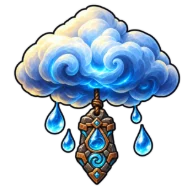
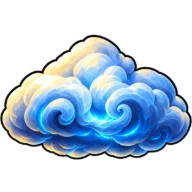
Rain totem cloud: picture is the cloud only, rain comes from the loop effect
Lim: remove the water drops from the picture, keep only the cloud and show
the rain as an effect. board-totem-rain v3 (Codex, same cloud without the
charm and drops); shaman-rain-loop now rains from the whole cloud belly
(logical 75, centre half a side below the cloud). Cloud placed fully inside
the board's top-right corner.

diff --git a/src/battle/board.ts b/src/battle/board.ts
@@ -1283,7 +1283,7 @@ const HERO_BOARD_ART: Partial<Record<HeroKey, string[]>> = {
  * 칸 위에 얹는 그림의 그려진 부분 (192px 그림 중 폭 · 높이 비율, 80 5장 납품본을 잼). 판 가장자리에서 크기를 줄일 때 씀 (비율은 그대로)
  */
 const HERO_ART_BOX: Record<string, [number, number]> = {
-  'board-totem-rain': [0.86, 0.94], // 2026-10-18 Codex로 다시 그림 (샘 · 대지 토템과 같은 돌 · 구리 부적) 'board-mist': [0.98, 0.49], 'board-seal': [0.85, 0.96], 'board-barrier': [0.79, 1],
+  'board-totem-rain': [1, 0.65], // 2026-10-18 Codex로 다시 그림: 구름만 (Lim 「물방울은 이미지에서 제거하고 구름만, 이펙트로 비를 표현」) 'board-mist': [0.98, 0.49], 'board-seal': [0.85, 0.96], 'board-barrier': [0.79, 1],
   'board-star-mark': [0.99, 0.79], 'board-star': [0.8, 0.96], 'board-star-sleep': [0.79, 1], // 결계 · 별의 잠 · 별자리 표식은 2026-10-16 굵게 다시 그림 (89)
 };
 /** 점성술사 모으는 별 (80 5장 board-star): 별 n개 자리 (칸 반지름 배, 대상 칸 가운데 기준). 차례로 선을 이음 */
@@ -1738,17 +1738,19 @@ export function render(now: number): void {
     }
     at.forEach((p, i) => heroArt(fxArt, 'board-star', `hero-star${i}`, p.x, p.y, r * (i === at.length - 1 && !perfect ? 0.54 + 0.08 * pulse : 0.54), perfect ? 0.8 + 0.2 * pulse : 1, true));
   }
-  // 주술사 비구름 토템 (board-totem-rain, 2026-10-18 Codex로 다시 그림): 비가 오는 동안 판 오른쪽 위 하늘에 떠서 천천히 흔들림.
-  // 나타날 때 0.35초 톡 부풀고, 그림 위에서 빗줄기 · 빛 루프 (shaman-rain-loop, 그림 크기 × 1.5 · 가운데가 그림보다 한 변의 1/4 아래)가 돎 (Lim 「비구름도 다른 토템처럼 효과 이펙트를」). 시각 효과 줄이기면 그림만
+  // 주술사 비구름 토템 (board-totem-rain = 구름만, 2026-10-18 Codex): 비가 오는 동안 판 오른쪽 위 하늘에 떠서 천천히 흔들림.
+  // 나타날 때 0.35초 톡 부풀고, 비는 그림 위 루프 (shaman-rain-loop, 그림 한 변 × 75/62 · 가운데가 그림보다 한 변의 반 아래)로 (Lim 「물방울은 이미지에서 제거하고 구름만, 이펙트로 비를 표현」).
+  // 시각 효과 줄이기면 구름만
   if (raining(F)) {
     if (rainShownAt == null) rainShownAt = now;
-    const pop = S.reducedEffects ? 1 : backOut(Math.min(1, (now - rainShownAt) / 350)), size = Math.max(30, r * 1.5) * (0.55 + 0.45 * pop), bob = S.reducedEffects ? 0 : Math.sin(t * 1.6) * r * 0.05;
-    const x = L.right - size * 0.4, y = L.top + size * 0.48 + bob, alpha = F.sham!.rainUntil - F.t < 2 ? 0.45 + 0.4 * pulse : 0.95;
+    const pop = S.reducedEffects ? 1 : backOut(Math.min(1, (now - rainShownAt) / 350)), size = Math.max(30, r * 1.35) * (0.55 + 0.45 * pop), bob = S.reducedEffects ? 0 : Math.sin(t * 1.6) * r * 0.05;
+    const x = L.right - size * 0.52, y = L.top + size * 0.36 + bob, alpha = F.sham!.rainUntil - F.t < 2 ? 0.45 + 0.4 * pulse : 0.95;
     const fit = heroArt(fxArt, 'board-totem-rain', 'hero-rain', x, y, size, alpha);
     const lp = PXF['shaman-rain-loop'], lt = fit && !S.reducedEffects ? smoothFrame('shaman-rain-loop', loopFrame(lp, t)) : null;
     if (lt) {
       if (lt.source.scaleMode !== 'linear') lt.source.scaleMode = 'linear';
-      fxArt.put(lt, x, y + fit * 0.25, fit * 1.5, fit * 1.5, alpha);
+      const d = (fit * lp.logicalSize) / lp.referenceCell;
+      fxArt.put(lt, x, y + fit * 0.5, d, d, alpha);
     }
   } else rainShownAt = null;
 

diff --git a/src/battle/pxf.ts b/src/battle/pxf.ts
@@ -114,8 +114,8 @@ export const PXF = {
   // 판 위 토템이 서 있는 동안 도는 루프 (스킬 기록이 아니라 board.ts 선 물건): 3초 한 바퀴
   'shaman-spring-loop': loop(36, 64, 12),
   'shaman-earth-loop': loop(36, 64, 12),
-  // 판 오른쪽 위 비구름 토템 위에서 도는 루프 (그림 크기 × 1.5, 가운데가 그림보다 반 칸 아래)
-  'shaman-rain-loop': loop(36, 93, 12),
+  // 판 오른쪽 위 비구름 토템 (구름만) 위에서 도는 루프: 비는 이 이펙트로 (그림 한 변 × 75/62, 가운데가 그림보다 한 변의 반 아래)
+  'shaman-rain-loop': loop(36, 75, 12),
   // 결계사 (79 5-5 네모 결계, 2026-10-16 Lim 「흰색이라서 퀄리티가 더 떨어져보인다. 노란 발광의 빛이나게」→ 손그림풍 노란 빛): 인장 X · 도장 · 유리판 · 깨지는 유리 · 네 말뚝 · 도는 방패 · 가로 띠 · 창 · 망치
   'warder-seal': skill(20, 92),
   'warder-barrier': skill(22, 96),
